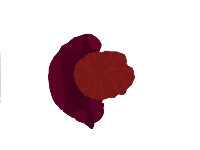
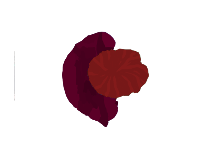
feministka over

Changed region(s): [[0.24, 0.2133, 0.75, 0.88], [0.06, 0.3467, 0.09, 0.64], [0.0, 0.3467, 0.03, 0.64]]

diff --git a/core/src/gamejam/Fem.java b/core/src/gamejam/Fem.java
@@ -15,7 +15,7 @@ import com.mygdx.game.settings.GameVars;
 public class Fem extends PhysicObject{
 	public int banany;
 	float time2;
-	public boolean isDead;
+	public boolean isDead, isOver;
 	Random g;
 	float tab[] = new float[12];
 	float time;
@@ -41,10 +41,12 @@ public class Fem extends PhysicObject{
 		hitbox.createBall(50, 10, 1, 1);
 		hitbox.scl = 0;
 		lewa = new SpriteObject(this, 0, 0);
+		
 		lewa.scl = 0;
 		prawa = new SpriteObject(this, 0, 0);
 		prawa.scl = 0;
-		
+		czarna = new SpriteObject(this, 0, 0);
+		czarna.scl = 0;
 		addSprite(lewa)
 		.addTexture(Gdx.files.internal("data/feml.png"));
 		
@@ -53,6 +55,9 @@ public class Fem extends PhysicObject{
 		
 		addSprite(hitbox)
 		.addTexture(Gdx.files.internal("data/fem.png"));
+		
+		addSprite(czarna)
+		.addTexture(Gdx.files.internal("data/czarnadziura.png"));
 		
 		
 		this.speed = speed;
@@ -68,18 +73,38 @@ public class Fem extends PhysicObject{
 		else {
 			applyForce((float)(-Math.cos(Math.toRadians(alfa))*speed*delta), (float)(-Math.sin(Math.toRadians(alfa))*speed*delta));
 		}*/
+		float v = (float) (GameVars.box2dScale*Math.sqrt(hitbox.body.getLinearVelocity().x*hitbox.body.getLinearVelocity().x + hitbox.body.getLinearVelocity().y*hitbox.body.getLinearVelocity().y));
 		if (isDead) {
+			lewa.isVisible = false;
+			prawa.isVisible = false;
 			if (lewa.scl >= 0) {
 				time2 += delta;
 				lewa.scl -= delta*time2/10;
 				prawa.scl -= delta*time2/10;
 				hitbox.scl -= delta*time2/10;
+				czarna.scl -= delta*(time2-5)/10;
+				czarna.alfa +=(delta*(time2)*100);
+				lewa.alfa +=(delta*time2*100);
+				prawa.alfa +=(delta*time2*100);
+				hitbox.alfa +=(delta*time2*100);
 			}
 			else {
 				lewa.scl = 0;
 				prawa.scl = 0;
 				hitbox.scl = 0;
+				czarna.scl -= delta*(5-time2)/10;
+				if (czarna.scl < 0 && hitbox.scl <= 0) {
+					isOver = true;
+					czarna.isVisible = false;
+					lewa.isVisible = false;
+					prawa.isVisible = false;
+					hitbox.isVisible = false;
+				}
+				else {
+					czarna.scl -= delta*(time2-5)/10;
+				}
 			}
+			
 			
 		}
 		else {
@@ -89,11 +114,11 @@ public class Fem extends PhysicObject{
 			hitbox.scl += delta/2;
 		}
 		else {
-			lewa.scl =1 + banany/4f;
-			prawa.scl =1+ banany/4f;
-			hitbox.scl =1+ banany/4f;
+			lewa.scl =1 + banany/8f;
+			prawa.scl =1+ banany/8f;
+			hitbox.scl =1+ banany/8f;
 		}
-		}
+		
 
 		if((int)((time*tab[0]/20 + tab[1])/tab[2])%2 == 1) isW = true;
 		else isW = false;
@@ -123,7 +148,7 @@ public class Fem extends PhysicObject{
 		
 			sclVel(0.95f);
 		
-			float v = (float) (GameVars.box2dScale*Math.sqrt(hitbox.body.getLinearVelocity().x*hitbox.body.getLinearVelocity().x + hitbox.body.getLinearVelocity().y*hitbox.body.getLinearVelocity().y));
+			
 			if (v != 0) {
 				if (hitbox.body.getLinearVelocity().x >= 0)
 					hitbox.alfa = (float) Math.asin(hitbox.body.getLinearVelocity().y*GameVars.box2dScale/v);
@@ -133,19 +158,21 @@ public class Fem extends PhysicObject{
 			else {
 				hitbox.alfa = 0;			
 			}
+			if (banany < 15) {
 			alfa = hitbox.alfa;
 			hitbox.alfa = (float) Math.toDegrees(hitbox.alfa);
 			prawa.alfa = (float) (hitbox.alfa);
 			lewa.alfa = (float) (hitbox.alfa);
 			//glowa.alfa = (float) (hitbox.alfa);
-			
-			//if (v > 30) v = 30;
+			}
+			}//if (v > 30) v = 30;
 			time += delta;
 			drenka = (float) (Math.sin(time*5)*v/40);
 			prawa.position.set(hitbox.position.x + drenka * (float)Math.cos((alfa)), hitbox.position.y + drenka * (float)Math.sin((alfa)));
 			lewa.position.set(hitbox.position.x - drenka * (float)Math.cos((alfa)), hitbox.position.y - drenka * (float)Math.sin((alfa)));
-			//glowa.position.set(hitbox.position);
-			}
+			czarna.position.set(hitbox.position);
+			
+		}
 	}
 	public void setTarget(Vector2 playerPos) {
 		if (isTriggered) {

diff --git a/core/src/com/mygdx/game/scenes/GameScene.java b/core/src/com/mygdx/game/scenes/GameScene.java
@@ -30,7 +30,7 @@ import gamejam.Ramka;
 public class GameScene extends Scene{
 	float wirX, wirY;
 	float pawianX = -200, pawianY = -200;
-	int score;
+	public int score;
 	public Player player;
 	public Ramka ramka;
 	public Pasek pasek;
@@ -81,6 +81,17 @@ public class GameScene extends Scene{
 		super.update(delta);
 		cam.position.set(player.hitbox.position.x, player.hitbox.position.y, 0);
 		cam.update();
+		
+		
+		if (fem != null && fem.isOver && score == 3) {
+			fem.hitbox.body.setActive(false);
+			score++;
+			ramka.przestaw(1);
+			pasek.setVap();
+		}
+		
+		
+		
 		for (int x = 0;  x < hums.size(); x++) {
 			if (hums.get(x).isDead) {
 				

diff --git a/core/src/gamejam/Player.java b/core/src/gamejam/Player.java
@@ -105,7 +105,7 @@ public class Player extends PhysicObject{
 			alfa2 /= i;
 		}
 		else {
-			speed = 0;
+			speed = 1;
 			alfa2 = alfa;
 		}
 		if (alfa - alfa2 > 180) {
@@ -117,7 +117,7 @@ public class Player extends PhysicObject{
 			alfa /= 6;
 		}
 		alfa = alfa2;
-		
+		if (alfa == 90) alfa = 90.1f;
 		
 			
 		applyForce((float)(Math.cos(Math.toRadians(alfa))*speed*delta), (float)(Math.sin(Math.toRadians(alfa))*speed*delta));

diff --git a/core/src/com/mygdx/game/objects/SpriteObject.java b/core/src/com/mygdx/game/objects/SpriteObject.java
@@ -26,7 +26,9 @@ public class SpriteObject extends GameObject {
 	public float scl;
 	
 	public GameObject parent;
-	
+	public void addToAlfa(float a) {
+		alfa += a;
+	}
 	public SpriteObject(GameObject parent, float x, float y){
 		super(parent.position.x + x, parent.position.y + y);
 		isVisible = true;

diff --git a/core/src/com/mygdx/game/mvc/Controller.java b/core/src/com/mygdx/game/mvc/Controller.java
@@ -46,6 +46,12 @@ public class Controller implements InputProcessor{
 			model.getScene().player.isA = true;
 			break;
 		}
+		case Keys.ENTER: {
+			if (model.getScene().score > 3 && model.getScene().score < 6) {
+				model.getScene().ramka.przestaw(1);
+			}
+			break;
+		}
 		}
 		
 		return false;

diff --git a/core/src/gamejam/Pasek.java b/core/src/gamejam/Pasek.java
@@ -23,15 +23,15 @@ public class Pasek extends Sprajt{
 	}	
 		
 	
-	void setTesto(){
+	public void setVap(){
 		pasek.frameNum = 1;
 	}
 	
-	void setNosacz(){
+	public void setNosacz(){
 		pasek.frameNum = 2;
 	}
 	
-	void setPoNosaczu(){
+	public void setPoNosaczu(){
 		pasek.frameNum = 3;
 	}
 }

diff --git a/core/src/gamejam/Sprajty.java b/core/src/gamejam/Sprajty.java
@@ -19,7 +19,7 @@ public class Sprajty extends Sprajt{
 			
 			plansza = new SpriteObject(this, 0, 0);
 			addSprite(plansza)
-			.addTexture(Gdx.files.internal("data/plansza.png"));
+			.addTexture(Gdx.files.internal("data/plansza1.png"));
 			break;
 		}
 		
